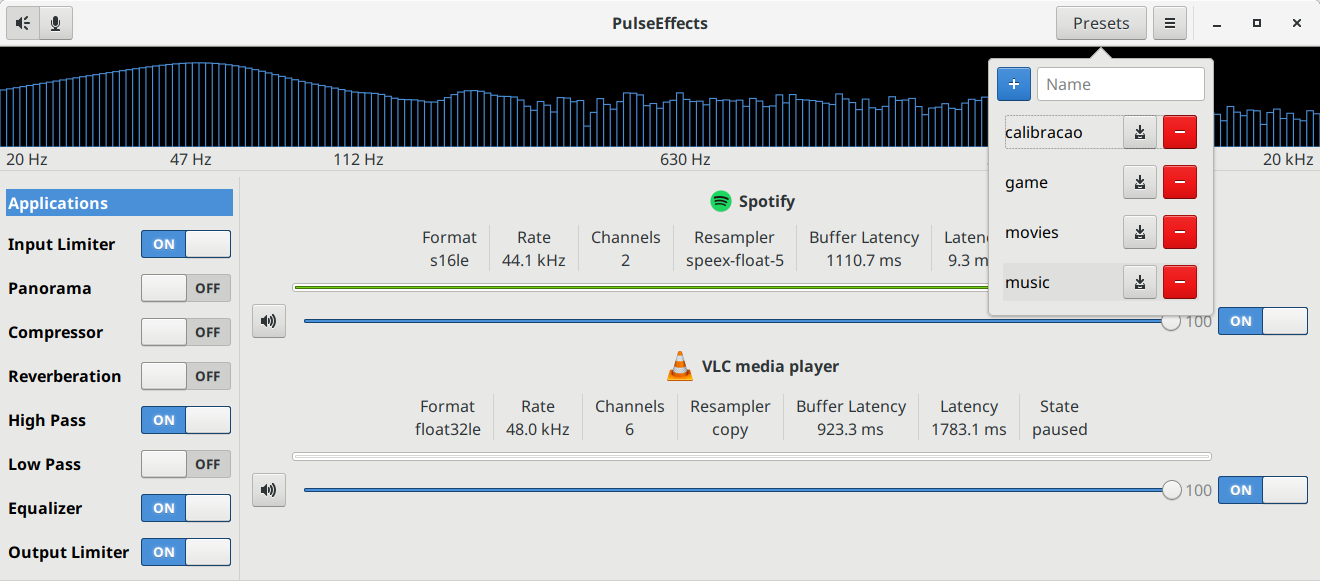
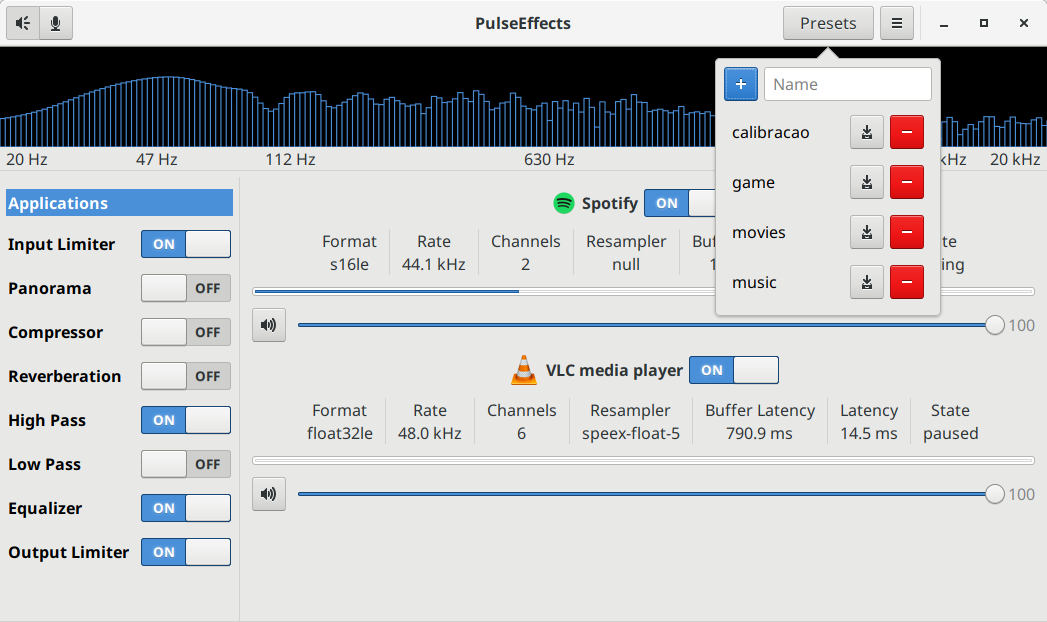
updated changelog and readme images

Changed region(s): [[0.0, 0.0, 1.0, 0.9914], [0.8863, 0.6506, 0.9475, 0.7126], [0.7641, 0.3098, 0.7947, 0.3408]]

diff --git a/CHANGELOG.md b/CHANGELOG.md
@@ -2,5 +2,10 @@
 
 ## [Unreleased]
 ### Added
+
+## [3.0.9]
+### Added
 - Equalizer: it now has 30 bands fully configurable by the user
 - Global: enable all apps switch added to the main menu
+- App info: apps on/off switch is now near the apps name and icon. Let's hope
+that this makes things more obvious to new users.
